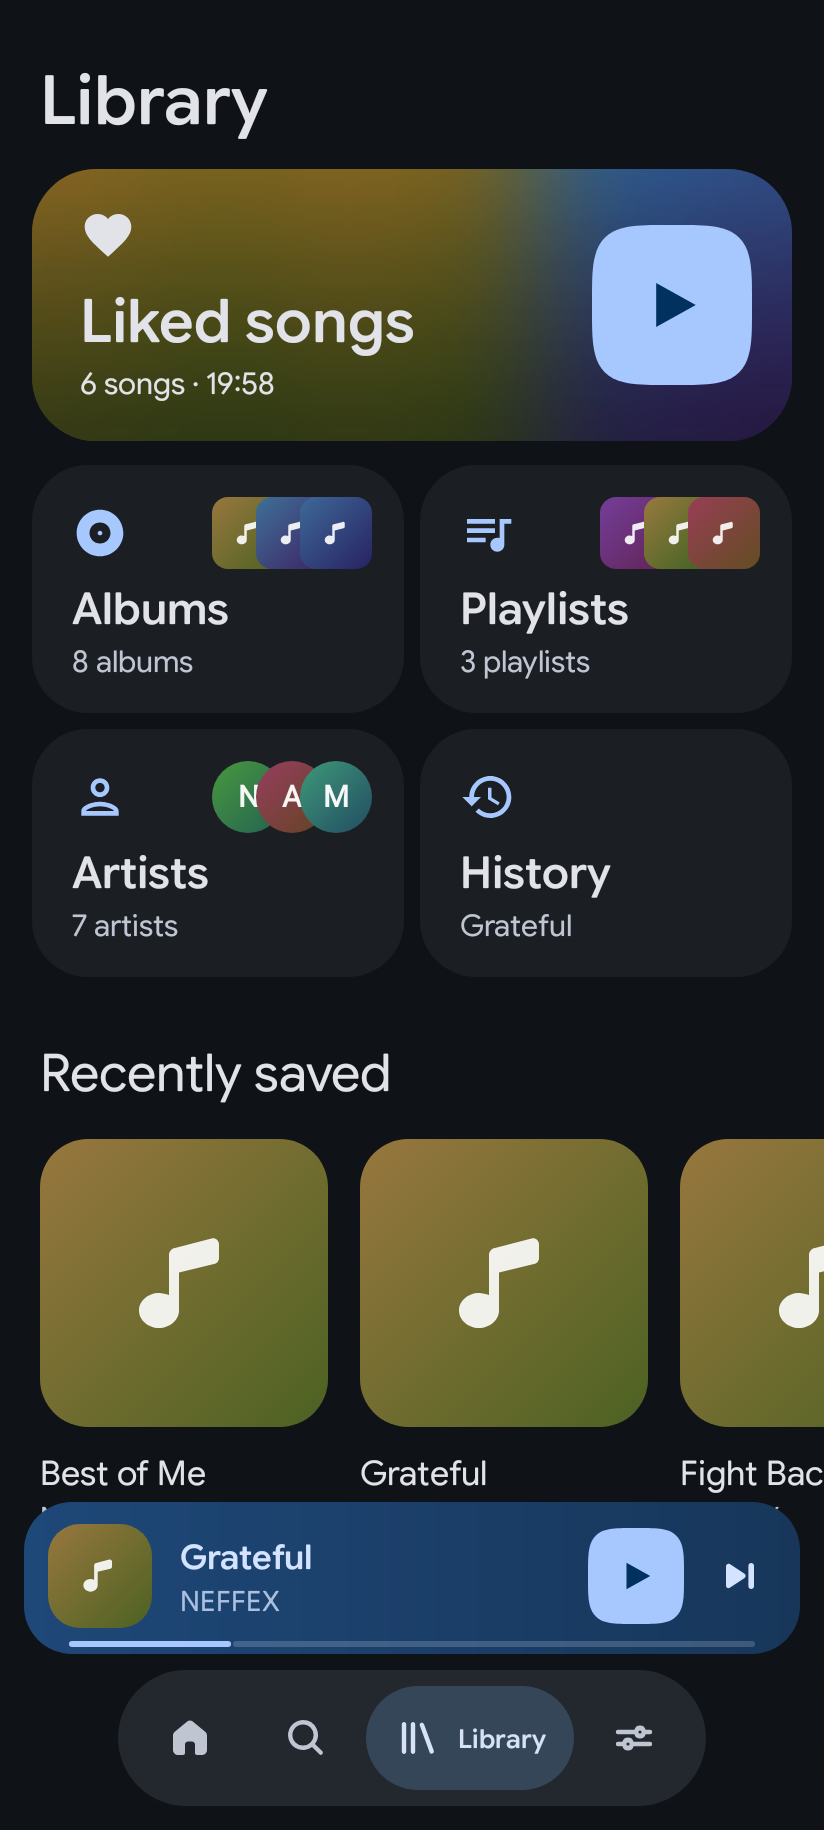
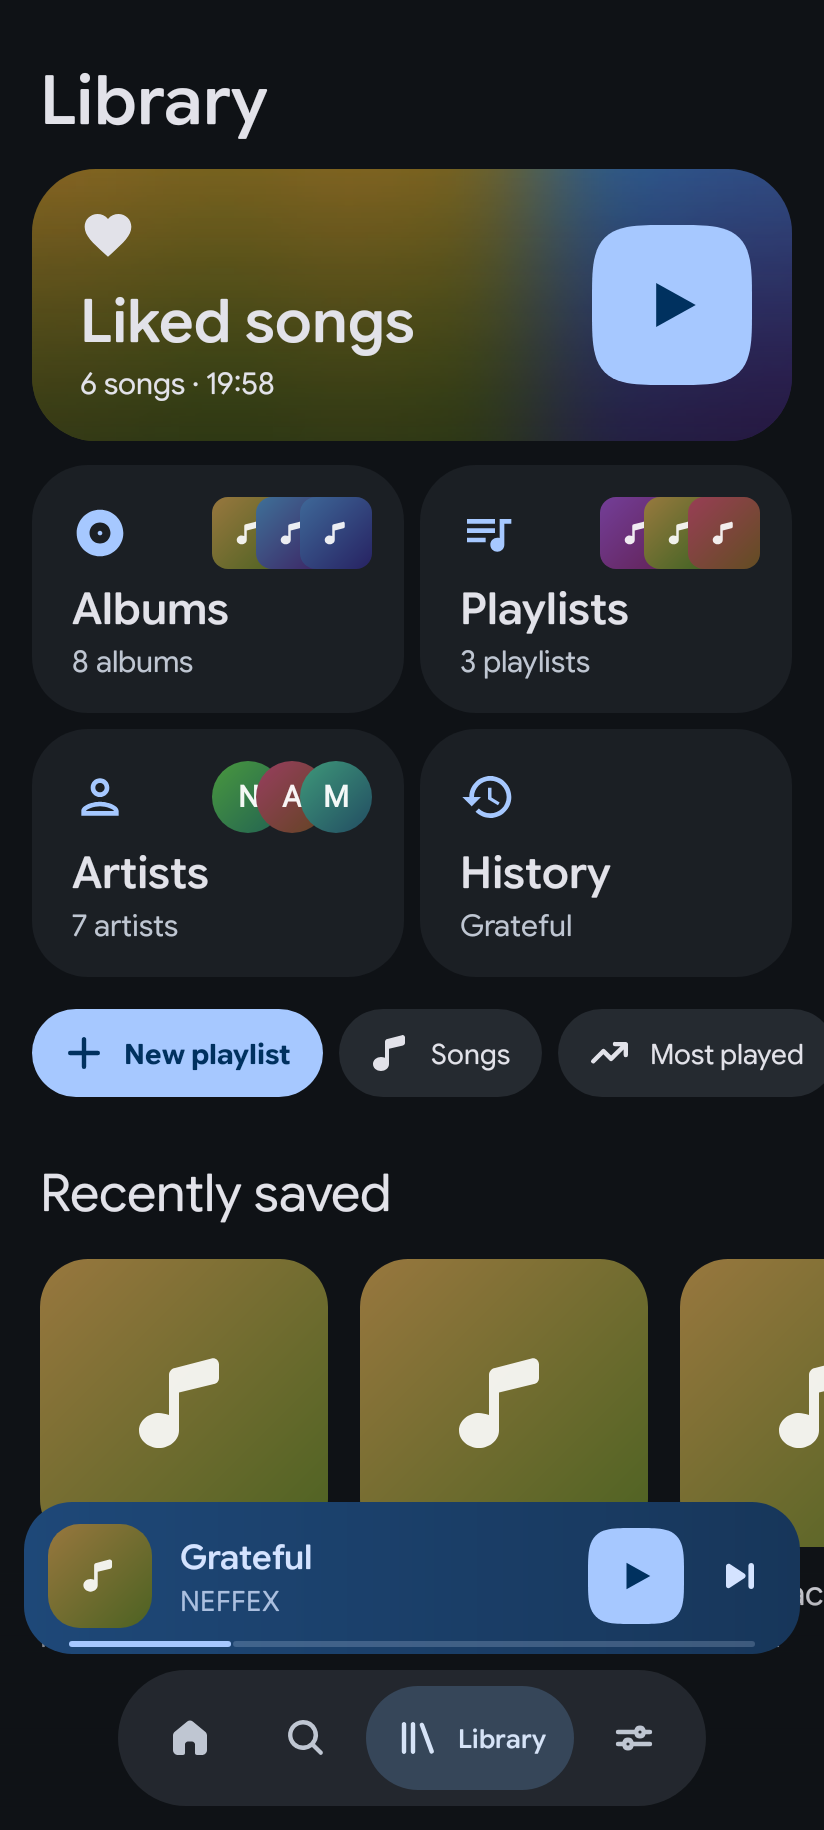
Archive D19; lyrics reference image; wave 3 plan
Claude-Session: https://claude.ai/code/session_01Vs9o5GYUVh6nkyc9RDeAP9

Changed region(s): [[0.0303, 0.5295, 1.0, 0.8721]]

diff --git a/docs/DIRECTIVES.md b/docs/DIRECTIVES.md
@@ -297,3 +297,47 @@ Visual language = **Material 3 Expressive**, dark theme, dynamic blurred artwork
 2. **Output chip shows only "بلوتوث"** — owner wants the **device name** next to the Bluetooth icon (needs BLUETOOTH_CONNECT runtime permission on API 31+). Routed to U3.
 3. **Full-player title is huge and clipped** (only "no et orchestre)" visible, collides with the 3-dot menu). Routed to U3.
 4. **Bottom of scrolling screens is buggy** ("when you scroll to the very end"): last items hidden behind/through the translucent dock (nav + mini-player), no bottom padding. Routed to U1 (already queued as fix #1 there).
+
+---
+
+## D19 — 2026-10-23 — Secrets OK; ugly play/stop button; shallow app; lyrics/blur/M3 expressive/Google Sans Flex brief; empty Settings
+
+**Original (verbatim, with screenshots: GitHub secrets page, full player with distorted play button, empty Liked-songs screen with overlapping layout, a lyrics reference screenshot):**
+
+> کلید های گیت هاب اوکی شدن
+> این دکمه استپ خیلی یجوریه و قشنگ نیست
+> و باگ جدید
+> و اینکه برنامه عملا خیلی کوچیکه و تو هیچی برای کشف کردن و اسکرول توش نداری
+> زود میرسی ته برنامه
+> Lyrics and dynamic background blur generated from the cover art
+> و
+> Material theming هم نداریم
+> ستینگ هم خیلی خالیه و هیچ چیز خاصی نداره
+> این پرامپت هم دوستم نوشته:
+> Use native material 3 expressive shapes and shape transitions
+> Native bounce and motion physics documented by Google
+> https://m3.material.io/blog/building-with-m3-expressive
+> Use Google sans flex in different weights and rounding values
+> Documented here
+> https://fonts.google.com/specimen/Google+Sans+Flex?preview.script=Latn
+>
+> Make sure nothing floating is low in opacity  like the nav bar
+> Work on page transitions
+> State transitions (play/pause) and adapt a coherent style of "jiggle"
+>
+> We need support for lyrics
+> Embedded or external files, with word for word sync
+> And a emulation of word for word sync for lyrics without word by word sync
+> Words needs to have dynamic blur and gradients
+> ولی من میخوام بگم حواست باشه باعث نشه بهینه سازی های برنامه خراب بشن
+> و اینکه مستقیما از اونا استفاده نکن و مشابهشو بسبک برنامه خودمون بساز و اضافه کن
+
+**Summary:**
+1. GitHub Actions **secrets are set** (4 signing secrets, repo now `mhrsdev/music-player-mowj`) → release workflow signs with our key; first release signed this way needs one uninstall/reinstall of v0.1.0.
+2. The **play/stop button** is ugly/weird (v0.1.0 shows the distorted polygon; U3's geometry fix is pending release) → redesign as a clean, beautiful shape (circle ↔ rounded squircle spring morph), coherent "jiggle" state transitions (agent M1).
+3. **New bug:** the empty *Liked songs* screen layout overlaps (big circle icon over the title, hint text over the Play/Shuffle buttons) → U2.
+4. The app is **too small/shallow — nothing to discover, reaches the end of Home immediately** → much richer Home/discovery (agent H1).
+5. **Lyrics + dynamic cover-art background blur** with **word-by-word sync** (embedded or external files), an **emulated word-by-word sync** for lines lacking word timing, and **dynamic blur + gradient fill on words** (reference: `docs/design-reference/09-lyrics-reference-blur-wordsync.jpg`) → agent L1.
+6. **Material theming is missing** (Material You/dynamic color, M3 roles/shape) and **Settings is very empty** → M1 (theme) + U1 (Settings content).
+7. Friend's brief (to adopt in OUR OWN style, **not** copied from Google code): M3 Expressive shapes + shape transitions; native-style bounce/spring physics; Google Sans Flex in different weights and **roundness** (ROND axis); nothing floating may be low-opacity (nav bar etc.); page transitions; coherent jiggle for state transitions.
+8. **Constraint from the owner:** must **not break the app's optimizations** (battery/RAM), and **don't use Google's implementations directly — build similar ones in our own style**.

diff --git a/docs/STATUS.md b/docs/STATUS.md
@@ -44,6 +44,10 @@ _Last updated: 2026-10-23 — D16 phase 2 started (name Mowj/موج, logo, auto-
 Legend: ✅ done · 🔄 in progress · ⬜ todo · model in brackets
 
 ### In progress
+**Wave 3 (D19):**
+- 🔄 **H1** [Opus] Discovery/Home richness: many more sections + refresh/shuffle discovery, stats, mixes, decades/genres (additive data), infinite-feeling scroll.
+- 🔄 **L1** [Opus] Lyrics: word-by-word (enhanced LRC/embedded/external), emulated word timing, per-word gradient+blur, cover-art dynamic background.
+- 🔄 **M1** [Opus] Motion + M3 theming + fonts: own spring physics, shape morph (play/pause redesign), page/state transitions, Material You dynamic color option, Google Sans Flex ROND/wght, opaque floating surfaces.
 - 🔄 **N1** [Sonnet] Media notification + lock-screen controls missing on real device (D18) → `task/n1-notification`.
 **Phase 2 (D16) — up to 8 agents in parallel, worktrees `../wt-<id>`, branches `task/<id>-<slug>`:**
 - 🔄 **B-update** [Sonnet] GitHub auto-update (`data/update`, `ui/update/UpdateFragment`).
@@ -106,6 +110,7 @@ Obsolete WIP (Kotlin/Compose, do NOT reuse code): `task/t2-ui-foundation`, `task
 - Online (needs owner decision, K2): legal catalog provider.
 
 ## Change log
+- 2026-10-23: D19 archived. GitHub signing secrets set by owner. Launched H1/L1/M1. U2 finished (merged); N1 root cause = missing `addSession` (merged). Merged to ccr: N1, U3 (partial), U2, E, S1(partial, conflicts resolved). Tag push is blocked (403) → releases via workflow_dispatch.
 - 2026-10-23: D-sound merged. Owner renamed the GitHub repo to `mhrsdev/music-player-mowj` (git push prints the move; MCP GitHub tools are still scoped to the old name `mhrsdev/music-player` which redirects) → B told to use a Gradle-property slug; README/docs links to be updated at release time. Supervisor mis-addressed some UI-bug messages to agents B/U3 and corrected them (U3 owns player/mini-player/title/BT chip; E owns ArtworkLoader fix).
 - 2026-10-23: D18: owner's 4 more real-device screenshots → N1 launched (notification/lock screen), U3 told (clipped title + BT device name), U1 (dock/bottom padding). A-brand merged.
 - 2026-10-23: **v0.1.0 pre-release is LIVE** on GitHub (Release workflow run #1 success; https://github.com/mhrsdev/music-player/releases/tag/v0.1.0). Owner chose signing key in Secrets (D17); keystore generated + sent to owner (not committed). Owner sent first real-device screenshot with bugs → routed to U1/U3/E (see D17). Phase 2 agents running.
